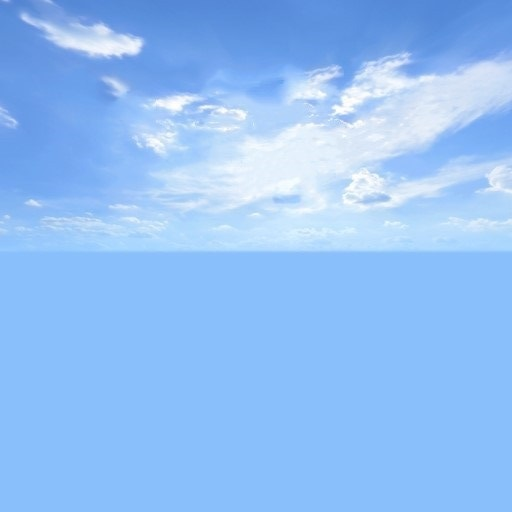
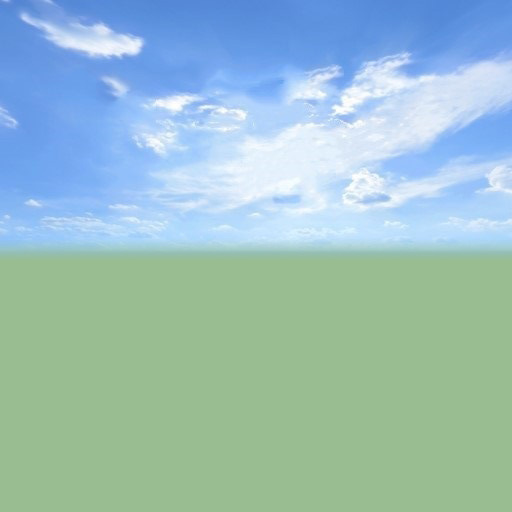
'右键移动，天空盒图片修改'

diff --git a/editor/js/EditorControls.js b/editor/js/EditorControls.js
@@ -55,7 +55,6 @@ function EditorControls(object, domElement) {
 	};
 
 	this.pan = function (delta) {
-		console.log("-----------------delta", delta);
 		var distance = object.position.distanceTo(center);
 
 		delta.multiplyScalar(distance * scope.panSpeed);
@@ -107,6 +106,7 @@ function EditorControls(object, domElement) {
 
 		switch (event.pointerType) {
 			case "mouse":
+			case "pen":
 				onMouseDown(event);
 				break;
 
@@ -122,6 +122,7 @@ function EditorControls(object, domElement) {
 
 		switch (event.pointerType) {
 			case "mouse":
+			case "pen":
 				onMouseMove(event);
 				break;
 
@@ -132,6 +133,7 @@ function EditorControls(object, domElement) {
 	function onPointerUp(event) {
 		switch (event.pointerType) {
 			case "mouse":
+			case "pen":
 				onMouseUp();
 				break;
 
@@ -145,18 +147,13 @@ function EditorControls(object, domElement) {
 	// mouse
 
 	function onMouseDown(event) {
-		console.log("button", event.button);
 		if (event.button === 0) {
-			// 左键
 			state = STATE.ROTATE;
 		} else if (event.button === 1) {
-			// 中键
-			state = STATE.ZOOM;
-			//state = STATE.PAN;
-		} else if (event.button === 2) {
-			// 右键
+			// state = STATE.ZOOM;
 			state = STATE.PAN;
-			return false;
+		} else if (event.button === 2) {
+			state = STATE.PAN;
 		}
 
 		pointerOld.set(event.clientX, event.clientY);
@@ -173,7 +170,6 @@ function EditorControls(object, domElement) {
 		} else if (state === STATE.ZOOM) {
 			scope.zoom(delta.set(0, 0, movementY));
 		} else if (state === STATE.PAN) {
-			console.log("------------------onMouseMove--pan");
 			scope.pan(delta.set(-movementX, movementY, 0));
 		}
 
@@ -275,7 +271,7 @@ function EditorControls(object, domElement) {
 				var offset1 = touches[1].clone().sub(getClosest(touches[1], prevTouches));
 				offset0.x = -offset0.x;
 				offset1.x = -offset1.x;
-				console.log("-----------touchMove---pan");
+
 				scope.pan(offset0.add(offset1));
 
 				break;
